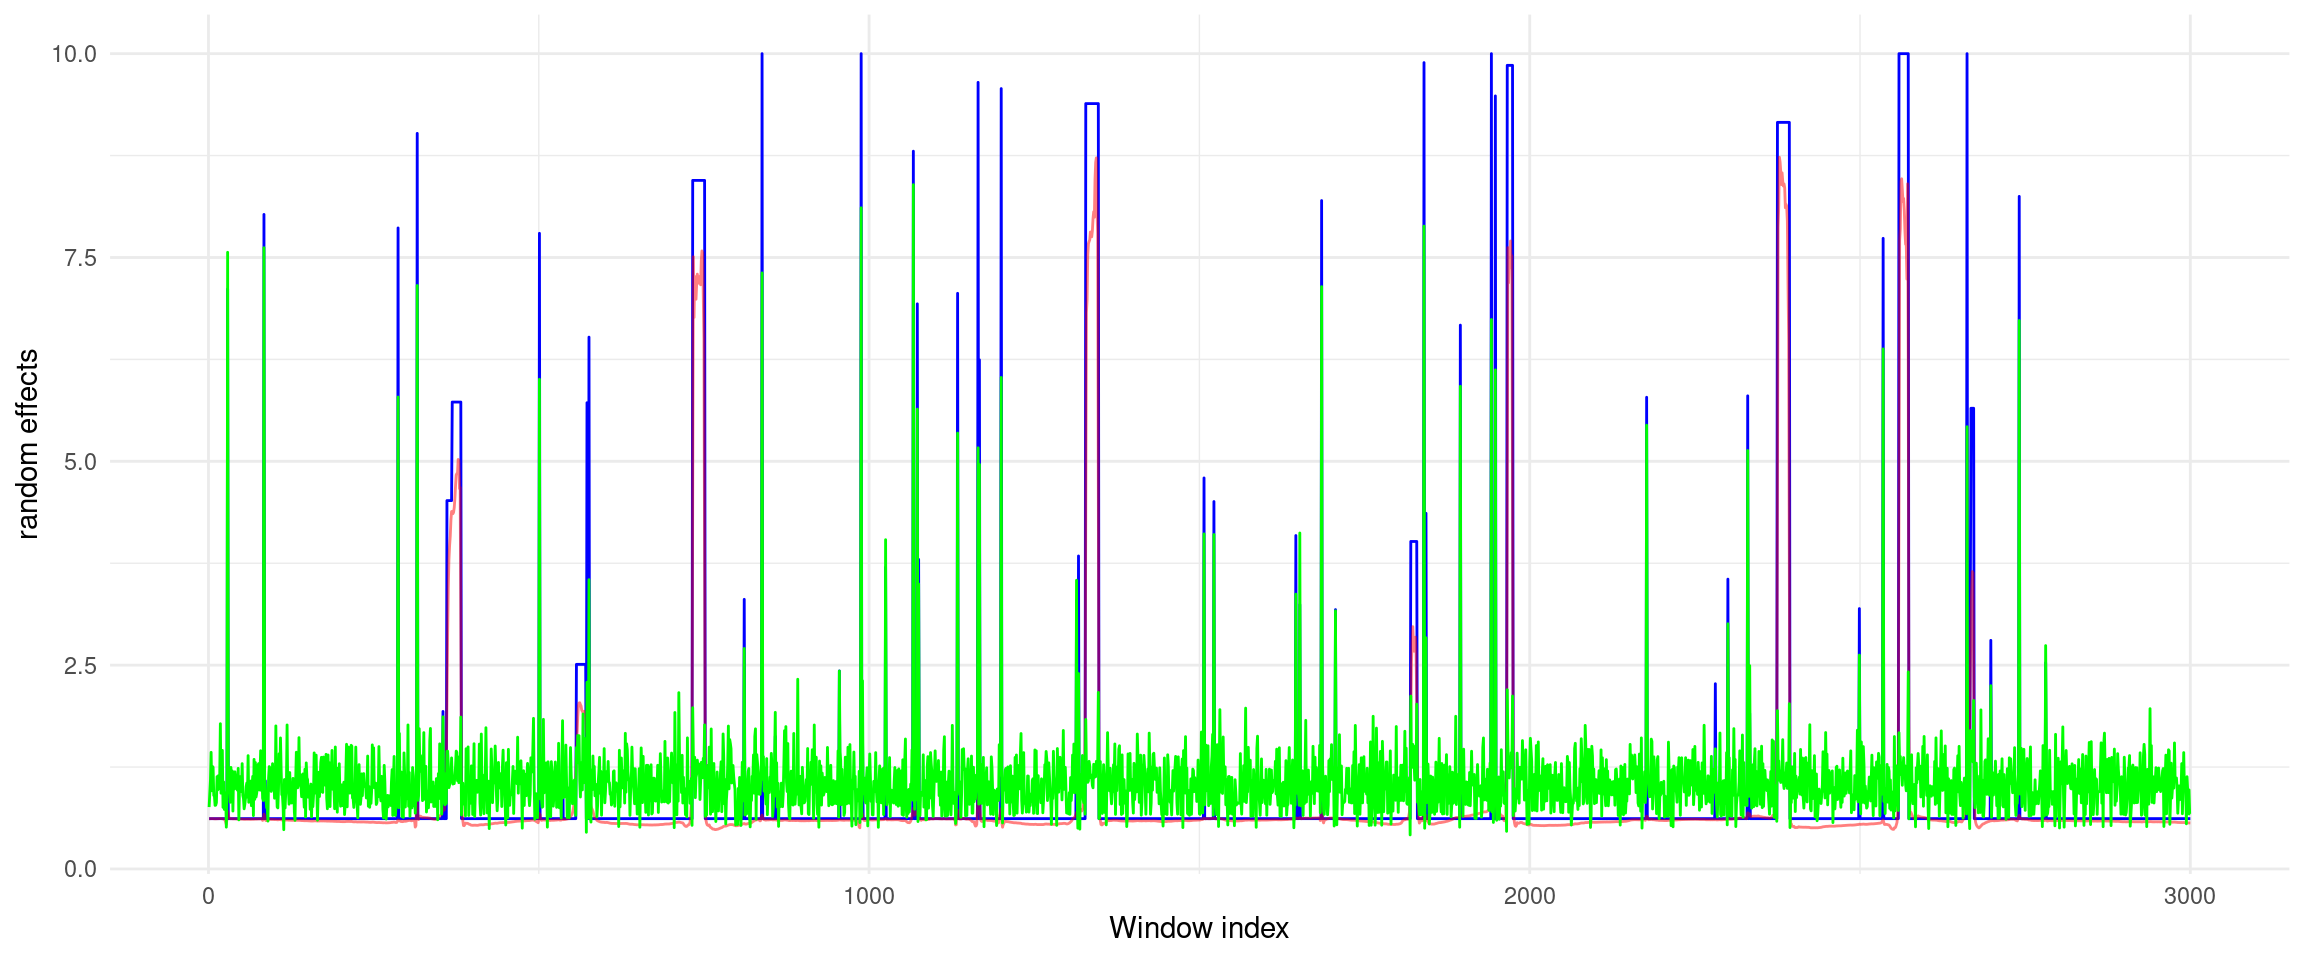
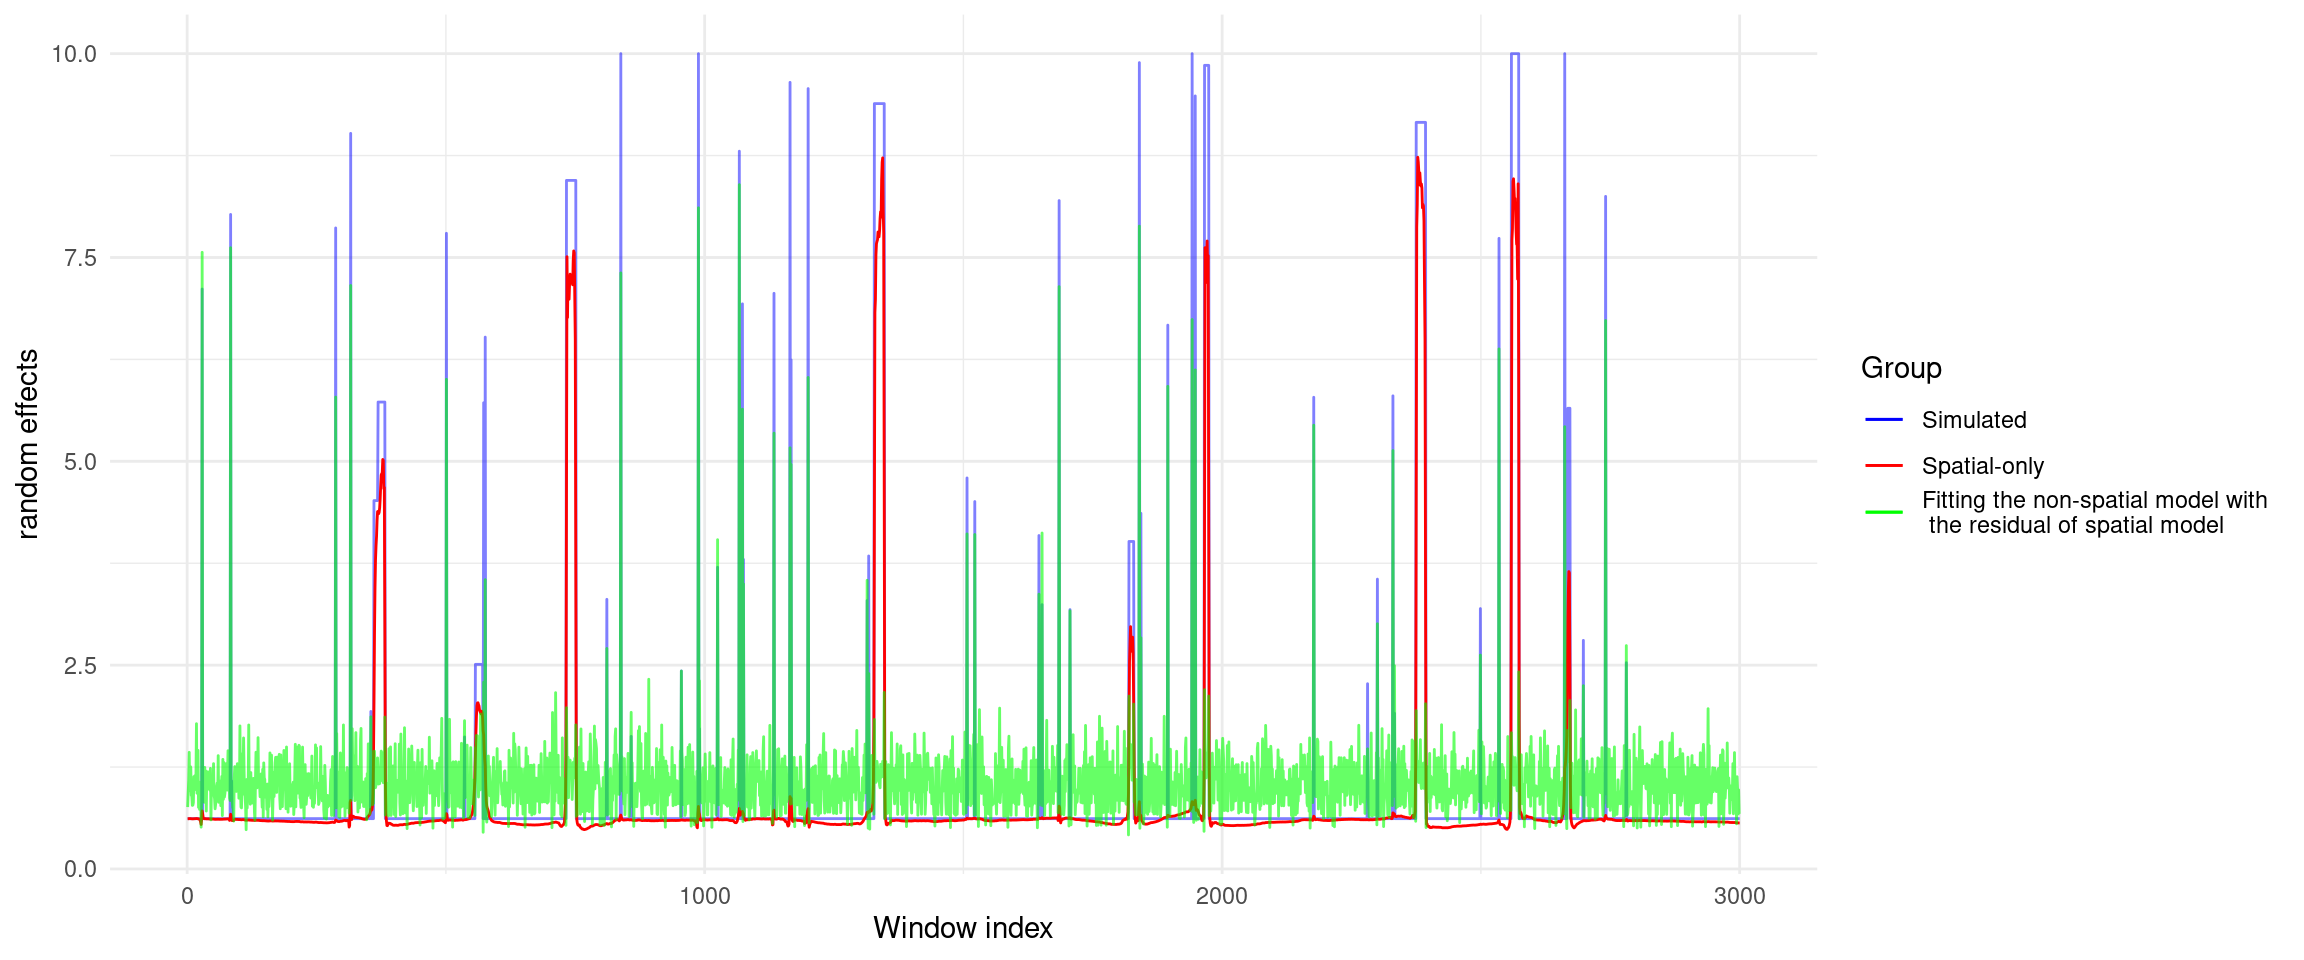
update

diff --git a/docs/denovo_simulation_snons.html b/docs/denovo_simulation_snons.html
@@ -394,7 +394,7 @@ aria-hidden="true"></span> </a>
 <div class="tab-content">
 <div id="summary" class="tab-pane fade in active">
 <p>
-<strong>Last updated:</strong> 2023-10-11
+<strong>Last updated:</strong> 2023-10-16
 </p>
 <p>
 <strong>Checks:</strong> <span
@@ -528,15 +528,15 @@ project makes it easier to run your code on other machines.</p>
 <div class="panel panel-default">
 <div class="panel-heading">
 <p class="panel-title">
-<a data-toggle="collapse" data-parent="#workflowr-checks" href="#strongRepositoryversionstrongahrefhttpsgithubcomxsun1229mutationratetree046cebb6e46c643b764ac5ccfa341e52d121742ftargetblank046cebba">
+<a data-toggle="collapse" data-parent="#workflowr-checks" href="#strongRepositoryversionstrongahrefhttpsgithubcomxsun1229mutationratetree532dcdb42fc62b1c86b2d5d3022f599aeed76141targetblank532dcdba">
 <span class="glyphicon glyphicon-ok text-success"
 aria-hidden="true"></span> <strong>Repository version:</strong>
-<a href="https://github.com/xsun1229/mutation_rate/tree/046cebb6e46c643b764ac5ccfa341e52d121742f" target="_blank">046cebb</a>
+<a href="https://github.com/xsun1229/mutation_rate/tree/532dcdb42fc62b1c86b2d5d3022f599aeed76141" target="_blank">532dcdb</a>
 </a>
 </p>
 </div>
 <div
[2 lines of base64/hex data omitted]
 class="panel-collapse collapse">
 <div class="panel-body">
 <p>
@@ -546,7 +546,7 @@ reproducibility.
 </p>
 <p>
 The results in this page were generated with repository version
-<a href="https://github.com/xsun1229/mutation_rate/tree/046cebb6e46c643b764ac5ccfa341e52d121742f" target="_blank">046cebb</a>.
+<a href="https://github.com/xsun1229/mutation_rate/tree/532dcdb42fc62b1c86b2d5d3022f599aeed76141" target="_blank">532dcdb</a>.
 See the <em>Past versions</em> tab to see a history of the changes made
 to the R Markdown and HTML files.
 </p>
@@ -564,7 +564,6 @@ Ignored files:
     Ignored:    .Rhistory
 
 Unstaged changes:
-    Modified:   analysis/denovo_simulation_nonspatial_gamma_new.Rmd
     Modified:   analysis/denovo_simulation_snons.Rmd
 
 </code></pre>
@@ -612,6 +611,40 @@ Message
 </tr>
 </thead>
 <tbody>
+<tr>
+<td>
+Rmd
+</td>
+<td>
+<a href="https://github.com/xsun1229/mutation_rate/blob/5d7dd7ef78c1b970bb0114e442663b5e12fbb6e8/analysis/denovo_simulation_snons.Rmd" target="_blank">5d7dd7e</a>
+</td>
+<td>
+XSun
+</td>
+<td>
+2023-10-11
+</td>
+<td>
+update
+</td>
+</tr>
+<tr>
+<td>
+html
+</td>
+<td>
+<a href="https://rawcdn.githack.com/xsun1229/mutation_rate/5d7dd7ef78c1b970bb0114e442663b5e12fbb6e8/docs/denovo_simulation_snons.html" target="_blank">5d7dd7e</a>
+</td>
+<td>
+XSun
+</td>
+<td>
+2023-10-11
+</td>
+<td>
+update
+</td>
+</tr>
 <tr>
 <td>
 Rmd
@@ -1728,9 +1761,172 @@ id="fitting-spatial-model-first-making-the-non-spatial-effects-larger"
 class="section level2">
 <h2>Fitting spatial model first, making the non-spatial effects
 larger</h2>
-<p><img src="figure/denovo_simulation_snons.Rmd/unnamed-chunk-9-1.png" width="1152" style="display: block; margin: auto;" /><img src="figure/denovo_simulation_snons.Rmd/unnamed-chunk-9-2.png" width="1152" style="display: block; margin: auto;" /></p>
+<p><img src="figure/denovo_simulation_snons.Rmd/unnamed-chunk-9-1.png" width="1152" style="display: block; margin: auto;" /></p>
+<p>
+<button type="button" class="btn btn-default btn-xs btn-workflowr btn-workflowr-fig" data-toggle="collapse" data-target="#fig-unnamed-chunk-9-1">
+Past versions of unnamed-chunk-9-1.png
+</button>
+</p>
+<div id="fig-unnamed-chunk-9-1" class="collapse">
+<div class="table-responsive">
+<table class="table table-condensed table-hover">
+<thead>
+<tr>
+<th>
+Version
+</th>
+<th>
+Author
+</th>
+<th>
+Date
+</th>
+</tr>
+</thead>
+<tbody>
+<tr>
+<td>
+<a href="https://github.com/xsun1229/mutation_rate/blob/5d7dd7ef78c1b970bb0114e442663b5e12fbb6e8/docs/figure/denovo_simulation_snons.Rmd/unnamed-chunk-9-1.png" target="_blank">5d7dd7e</a>
+</td>
+<td>
+XSun
+</td>
+<td>
+2023-10-11
+</td>
+</tr>
+</tbody>
+</table>
+</div>
+</div>
+<p><img src="figure/denovo_simulation_snons.Rmd/unnamed-chunk-9-2.png" width="1152" style="display: block; margin: auto;" /></p>
+<p>
+<button type="button" class="btn btn-default btn-xs btn-workflowr btn-workflowr-fig" data-toggle="collapse" data-target="#fig-unnamed-chunk-9-2">
+Past versions of unnamed-chunk-9-2.png
+</button>
+</p>
+<div id="fig-unnamed-chunk-9-2" class="collapse">
+<div class="table-responsive">
+<table class="table table-condensed table-hover">
+<thead>
+<tr>
+<th>
+Version
+</th>
+<th>
+Author
+</th>
+<th>
+Date
+</th>
+</tr>
+</thead>
+<tbody>
+<tr>
+<td>
+<a href="https://github.com/xsun1229/mutation_rate/blob/5d7dd7ef78c1b970bb0114e442663b5e12fbb6e8/docs/figure/denovo_simulation_snons.Rmd/unnamed-chunk-9-2.png" target="_blank">5d7dd7e</a>
+</td>
+<td>
+XSun
+</td>
+<td>
+2023-10-11
+</td>
+</tr>
+</tbody>
+</table>
+</div>
+</div>
 <pre><code>[1] &quot;the final estimated random effects = random effects_NS * random effects_S &quot;</code></pre>
-<p><img src="figure/denovo_simulation_snons.Rmd/unnamed-chunk-9-3.png" width="1152" style="display: block; margin: auto;" /><img src="figure/denovo_simulation_snons.Rmd/unnamed-chunk-9-4.png" width="1152" style="display: block; margin: auto;" /></p>
+<p><img src="figure/denovo_simulation_snons.Rmd/unnamed-chunk-9-3.png" width="1152" style="display: block; margin: auto;" /></p>
+<p>
+<button type="button" class="btn btn-default btn-xs btn-workflowr btn-workflowr-fig" data-toggle="collapse" data-target="#fig-unnamed-chunk-9-3">
+Past versions of unnamed-chunk-9-3.png
+</button>
+</p>
+<div id="fig-unnamed-chunk-9-3" class="collapse">
+<div class="table-responsive">
+<table class="table table-condensed table-hover">
+<thead>
+<tr>
+<th>
+Version
+</th>
+<th>
+Author
+</th>
+<th>
+Date
+</th>
+</tr>
+</thead>
+<tbody>
+<tr>
+<td>
+<a href="https://github.com/xsun1229/mutation_rate/blob/5d7dd7ef78c1b970bb0114e442663b5e12fbb6e8/docs/figure/denovo_simulation_snons.Rmd/unnamed-chunk-9-3.png" target="_blank">5d7dd7e</a>
+</td>
+<td>
+XSun
+</td>
+<td>
+2023-10-11
+</td>
+</tr>
+</tbody>
+</table>
+</div>
+</div>
+<p><img src="figure/denovo_simulation_snons.Rmd/unnamed-chunk-9-4.png" width="1152" style="display: block; margin: auto;" /></p>
+<p>
+<button type="button" class="btn btn-default btn-xs btn-workflowr btn-workflowr-fig" data-toggle="collapse" data-target="#fig-unnamed-chunk-9-4">
+Past versions of unnamed-chunk-9-4.png
+</button>
+</p>
+<div id="fig-unnamed-chunk-9-4" class="collapse">
+<div class="table-responsive">
+<table class="table table-condensed table-hover">
+<thead>
+<tr>
+<th>
+Version
+</th>
+<th>
+Author
+</th>
+<th>
+Date
+</th>
+</tr>
+</thead>
+<tbody>
+<tr>
+<td>
+<a href="https://github.com/xsun1229/mutation_rate/blob/5d7dd7ef78c1b970bb0114e442663b5e12fbb6e8/docs/figure/denovo_simulation_snons.Rmd/unnamed-chunk-9-4.png" target="_blank">5d7dd7e</a>
+</td>
+<td>
+XSun
+</td>
+<td>
+2023-10-11
+</td>
+</tr>
+</tbody>
+</table>
+</div>
+</div>
+</div>
+<div
+id="comparing-spatial-model-only-non-spatial-model-only-combining-spatial-and-non-spatial-model"
+class="section level2">
+<h2>Comparing spatial model only/ non-spatial model only/ combining
+spatial and non-spatial model</h2>
+<p><img src="figure/denovo_simulation_snons.Rmd/unnamed-chunk-10-1.png" width="1152" style="display: block; margin: auto;" /></p>
+<pre><code>[1] &quot;spatial only&quot;</code></pre>
+<p><img src="figure/denovo_simulation_snons.Rmd/unnamed-chunk-10-2.png" width="1152" style="display: block; margin: auto;" /></p>
+<pre><code>[1] &quot;non-spatial only&quot;</code></pre>
+<p><img src="figure/denovo_simulation_snons.Rmd/unnamed-chunk-10-3.png" width="1152" style="display: block; margin: auto;" /></p>
+<pre><code>[1] &quot;sptial &amp; non-spatial &quot;</code></pre>
+<p><img src="figure/denovo_simulation_snons.Rmd/unnamed-chunk-10-4.png" width="1152" style="display: block; margin: auto;" /></p>
 <br>
 <p>
 <button type="button" class="btn btn-default btn-workflowr btn-workflowr-sessioninfo" data-toggle="collapse" data-target="#workflowr-sessioninfo" style="display: block;">
